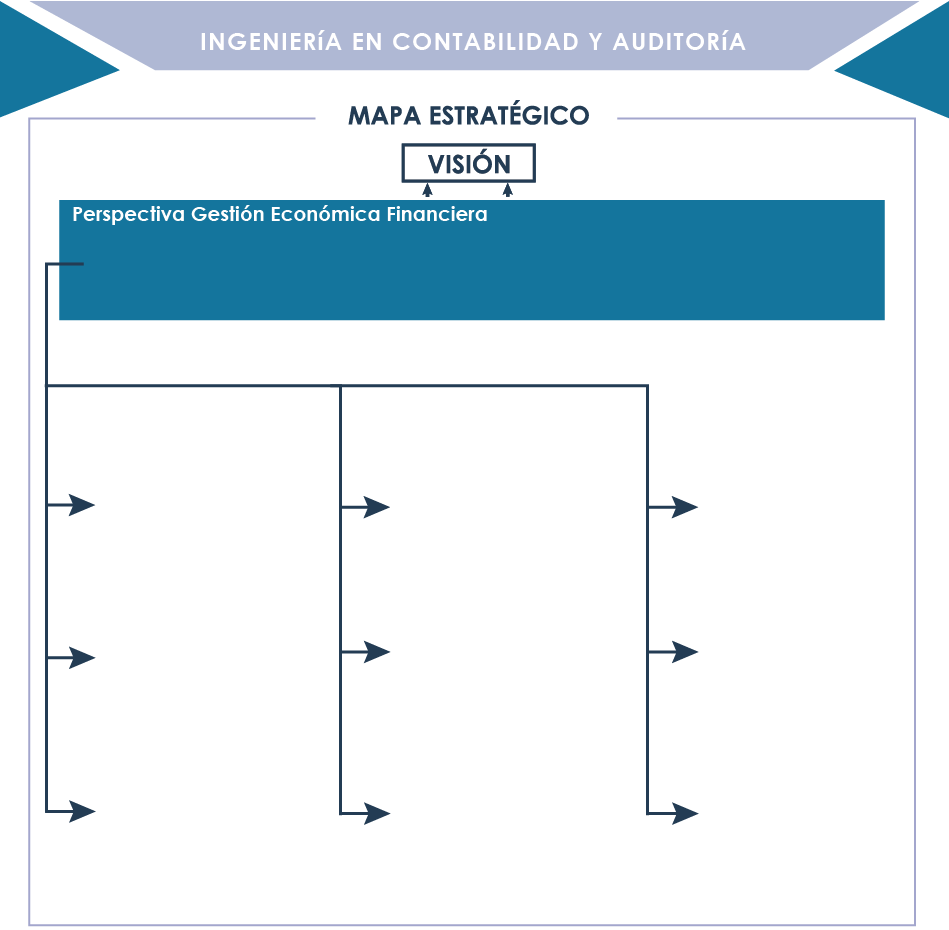
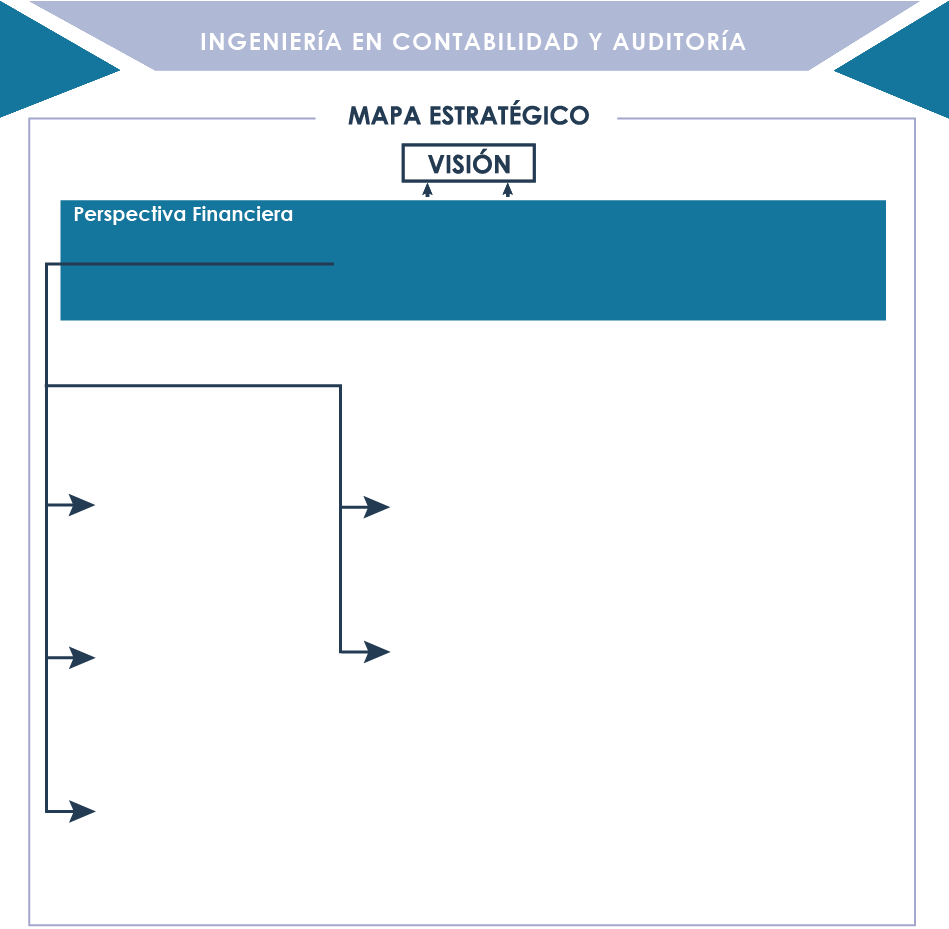
cvcv
cvcvv

diff --git a/public/css/Acciones.css b/public/css/Acciones.css
@@ -792,8 +792,8 @@ position:absolute;
 }
 #apDiv210 {
 	position:absolute;
-	left:363px;
-	top:719px;
+	left:365px;
+	top:732px;
 	width:32px;
 	height:7px;
 	z-index:1;
@@ -801,31 +801,31 @@ position:absolute;
 #apDiv211 {
 	position:absolute;
 	left:366px;
-	top:867px;
+	top:882px;
 	width:19px;
 	height:9px;
 	z-index:1;
 }
 #apDiv212 {
 	position:absolute;
-	left:366px;
-	top:1026px;
+	left:368px;
+	top:1040px;
 	width:20px;
 	height:7px;
 	z-index:1;
 }
 #apDiv213 {
 	position:absolute;
-	left:657px;
-	top:719px;
+	left:661px;
+	top:727px;
 	width:23px;
 	height:5px;
 	z-index:1;
 }
 #apDiv214 {
 	position:absolute;
-	left:658px;
-	top:865px;
+	left:660px;
+	top:878px;
 	width:27px;
 	height:6px;
 	z-index:1;
@@ -1028,5 +1028,101 @@ position:absolute;
 	top:1074px;
 	width:26px;
 	height:2px;
+	z-index:1;
+}
+#apDiv241 {
+	position:absolute;
+	left:448px;
+	top:392px;
+	width:70px;
+	height:23px;
+	z-index:1;
+}
+#apDiv242 {
+	position:absolute;
+	left:208px;
+	top:613px;
+	width:35px;
+	height:23px;
+	z-index:1;
+}
+#apDiv243 {
+	position:absolute;
+	left:208px;
+	top:764px;
+	width:94px;
+	height:24px;
+	z-index:1;
+}
+#apDiv244 {
+	position:absolute;
+	left:210px;
+	top:922px;
+	width:73px;
+	height:42px;
+	z-index:1;
+}
+#apDiv245 {
+	position:absolute;
+	left:502px;
+	top:610px;
+	width:66px;
+	height:36px;
+	z-index:1;
+}
+#apDiv246 {
+	position:absolute;
+	left:503px;
+	top:759px;
+	width:60px;
+	height:20px;
+	z-index:1;
+}
+#apDiv247 {
+	position:absolute;
+	left:728px;
+	top:544px;
+	width:133px;
+	height:52px;
+	z-index:1;
+}
+#apDiv248 {
+	position:absolute;
+	left:729px;
+	top:692px;
+	width:101px;
+	height:38px;
+	z-index:1;
+}
+#apDiv249 {
+	position:absolute;
+	left:729px;
+	top:842px;
+	width:74px;
+	height:39px;
+	z-index:1;
+}
+#apDiv250 {
+	position:absolute;
+	left:886px;
+	top:662px;
+	width:22px;
+	height:6px;
+	z-index:1;
+}
+#apDiv251 {
+	position:absolute;
+	left:887px;
+	top:810px;
+	width:25px;
+	height:5px;
+	z-index:1;
+}
+#apDiv252 {
+	position:absolute;
+	left:887px;
+	top:960px;
+	width:23px;
+	height:5px;
 	z-index:1;
 }

diff --git a/app/views/mapasbalanced/OptimiRecu.blade.php b/app/views/mapasbalanced/OptimiRecu.blade.php
@@ -83,57 +83,28 @@
                  @endif  
 
 
-               <div id="apDiv165">
-                      <img src="{{ asset('images/objetivosO/OptiRecursos_red.png') }}">
-                   </div>
-                     <div id="apDiv166">
-                        <img src="{{ asset('images/objetivosO/obtener_finan_red.png') }}">
-                     </div>
-                   <div id="apDiv167">
-                    <a id="1" href="{{ asset('images/descripcion/PlanOpAnual.png'); }}" rel="slideshow1">
-                         <img src="{{ asset('images/Acciones/PlanOpAnual.png') }}" style="cursor:pointer;">
-                      </a>
-                   </div>
-                   <div id="apDiv168">
-                    <a id="2" href="{{ asset('images/descripcion/PlanAnualContra.png'); }}" rel="slideshow2">
-                      <img src="{{ asset('images/Acciones/PlanAnualContra.png') }}" style="cursor:pointer;">
-                    </a>
-                   </div>
-                  <div id="apDiv169">
-                   <a id="3" href="{{ asset('images/descripcion/ActivosFijos.png'); }}" rel="slideshow3">
-                         <img src="{{ asset('images/Acciones/ActivosFijos.png') }}" style="cursor:pointer;">
-                    </a>
-                   </div>
-                  <div id="apDiv170">
-                   <a id="4" href="{{ asset('images/descripcion/ActivosCirculares.png'); }}" rel="slideshow4">
-                          <img src="{{ asset('images/Acciones/ActivosCirculares.png') }}" style="cursor:pointer;">
-                    </a>
-                  </div>
-                 <div id="apDiv171">
-                   <a id="5" href="{{ asset('images/descripcion/Energeticos.png'); }}" rel="slideshow5">
-                       <img src="{{ asset('images/Acciones/Energeticos.png') }}" style="cursor:pointer;">
-                    </a>
-                 </div>
-                <div id="apDiv172">
-                  <a id="6" href="{{ asset('images/descripcion/Agua.png'); }}" rel="slideshow6">
-                     <img src="{{ asset('images/Acciones/Agua.png') }}" style="cursor:pointer;">
-                  </a>
-                </div>
-                <div id="apDiv173">
-                 <a id="7" href="{{ asset('images/descripcion/Telefono.png'); }}" rel="slideshow7">
-                    <img src="{{ asset('images/Acciones/Telefono.png') }}" style="cursor:pointer;">
-                  </a>
-                </div>
-                <div id="apDiv174">
-                  <a id="8" href="{{ asset('images/descripcion/Internet.png'); }}" rel="slideshow8">
-                     <img src="{{ asset('images/Acciones/Internet.png') }}" style="cursor:pointer;">
-                  </a>
-                </div>
-                <div id="apDiv175">
-                  <a id="9" href="{{ asset('images/descripcion/GastosOperacion.png'); }}" rel="slideshow9">
-                       <img src="{{ asset('images/Acciones/GastosOperacion.png') }}" style="cursor:pointer;">
-                  </a>
-                </div>
+                <div id="apDiv241">
+                <img src="{{ asset('images/objetivosO/OptiRecursos_red.png')}}" style="cursor:pointer;">
+              </div>
+
+              <div id="apDiv242">
+                <img src="{{ asset('images/acciones/PresuDoc.png')}}" style="cursor:pointer;">
+              </div>
+              <div id="apDiv243">
+                <img src="{{ asset('images/acciones/PresuVinc.png')}}" style="cursor:pointer;">
+              </div>
+              <div id="apDiv244">
+                <img src="{{ asset('images/acciones/PresuInves.png')}}" style="cursor:pointer;">  
+              </div>
+              <div id="apDiv245">
+                <img src="{{ asset('images/acciones/PresuAdmin.png')}}" style="cursor:pointer;">  
+              </div>
+              <div id="apDiv246">
+                <img src="{{ asset('images/acciones/POA.png')}}" style="cursor:pointer;">
+              </div>
+                   
+
+                  
 
                 <!-- Evaluacion Acciones -->
 
@@ -152,17 +123,6 @@
                 <div id="apDiv214">
                    <img src="{{ asset('images/semaforo/rojo.png') }}">  
                 </div>
-                <div id="apDiv215">
-                    <img src="{{ asset('images/semaforo/rojo.png') }}">  
-                </div>
-                <div id="apDiv216">
-                   <img src="{{ asset('images/semaforo/rojo.png') }}">  
-                </div>
-                <div id="apDiv217">
-                   <img src="{{ asset('images/semaforo/rojo.png') }}">  
-                </div>
-                <div id="apDiv218">
-                    <img src="{{ asset('images/semaforo/rojo.png') }}">  
-                </div>
+               
         </div>
 @stop

diff --git a/app/views/mapasbalanced/MejorarClimaLab.blade.php b/app/views/mapasbalanced/MejorarClimaLab.blade.php
@@ -81,33 +81,36 @@
               </div>
                  @endif  
 
-               <div id="apDiv157">
+                <div id="apDiv157">
                         <img src="{{ asset('images/objetivosO/MejorarClima_red.png') }}">
                     </div>
-                    <div id="apDiv158">
-                        <img src="{{ asset('images/objetivosO/PromoCoope_red.png') }}">
+                     <div id="apDiv231">
+                      <img src="{{ asset('images/objetivosO/FortaCapDocentes_red.png')}}">
                     </div>
-                    <div id="apDiv150">
-                        <img src="{{ asset('images/objetivosO/FortaRRHH_red.png') }}">
-                    </div>
-                     <div id="apDiv159">
-                      <a id="1" href="{{ asset('images/descripcion/nConvEmpre.png'); }}" rel="slideshow1">
-                          <img src="{{ asset('images/Acciones/nConvEmpre.png') }}" style="cursor:pointer;">
-                      </a>
-                    </div>
-                    <div id="apDiv160">
-                        <a id="2" href="{{ asset('images/descripcion/nConvAcade.png'); }}" rel="slideshow2">
-                            <img src="{{ asset('images/Acciones/nConvAcade.png') }}" style="cursor:pointer;">
-                        </a>
-                    </div>
+
+                      <div id="apDiv247">
+                        <img src="{{ asset('images/acciones/Compromiso.png')}}" style="cursor:pointer;">
+                     </div>
+                     <div id="apDiv248">
+                       <img src="{{ asset('images/acciones/Liderazgo.png')}}" style="cursor:pointer;">
+                     </div>
+                     <div id="apDiv249">
+                        <img src="{{ asset('images/acciones/MotivPersonal.png')}}" style="cursor:pointer;">
+                     </div>
+
+                   
 
                     <!-- Evaluacion Acciones -->
 
-                     <div id="apDiv205">
-                        <img src="{{ asset('images/semaforo/rojo.png') }}">  
-                    </div>
-                    <div id="apDiv206">
-                        <img src="{{ asset('images/semaforo/rojo.png') }}">  
-                    </div>
+                       <div id="apDiv250">
+             <img src="{{ asset('images/semaforo/rojo.png') }}">  
+             </div>
+             <div id="apDiv251">
+              <img src="{{ asset('images/semaforo/rojo.png') }}">  
+             </div>
+             <div id="apDiv252">
+               <img src="{{ asset('images/semaforo/rojo.png') }}">  
+             </div> 
+                    
             </div>
 @stop

diff --git a/app/views/mapasbalanced/AcredCarr.blade.php b/app/views/mapasbalanced/AcredCarr.blade.php
@@ -81,26 +81,15 @@
                  @endif
 
 
-                  <div id="apDiv112">
-                          <img src="{{ asset('images/objetivosO/PotenInvest_red.png') }}">
+                   <div id="apDiv112">
+                        <img src="{{ asset('images/objetivosO/PotenInvest_red.png') }}">
                     </div>
                     <div id="apDiv113">
                         <img src="{{ asset('images/objetivosO/AcredCarr_red.png') }}">
                     </div>
-               <div id="apDiv116">
-                          <img src="{{ asset('images/Acciones/Evaluar_imp.png') }}">
-                    </div>
-                    <div id="apDiv117">
-                      <a id="1" href="{{ asset('images/descripcion/InserLab.png'); }}" rel="slideshow1">
 
-                         <img src="{{ asset('images/Acciones/InserLab.png') }}"  style="cursor:pointer;">  
-                       </a>  
-                    </div>
-                    <div id="apDiv118">
-                      <a id="2" href="{{ asset('images/descripcion/SatisEmpre.png'); }}" rel="slideshow2">
-                          <img src="{{ asset('images/Acciones/SatisEmpre.png') }}"  style="cursor:pointer;">
-                      </a>
-                    </div>
+
+                   
                     <div id="apDiv119">
                         <a id="3" href="{{ asset('images/descripcion/AvanceAcred.png'); }}" rel="slideshow3">
                           <img src="{{ asset('images/Acciones/AvanceAcred.png') }}"  style="cursor:pointer;">
@@ -109,13 +98,7 @@
 
                     <!-- Evaluacion Acciones -->
                      <!-- nombre del proyecto/macroproceso/escuela/proceso/objeto/peso-->
-                    <div id="apDiv179">
-                      <a style="cursor:default;" href="../evaluacionBalance/Producciones Científicas/20/{{Session::get('escuela')}}/2/2/4.5"  rel="floatbox">
-                      <img src="{{ asset('images/semaforo/rojo.png') }}">  
-                    </div>
-                     <div id="apDiv180">
-                      <img src="{{ asset('images/semaforo/rojo.png') }}">  
-                    </div>
+                   
                      <div id="apDiv181">
                       <img src="{{ asset('images/semaforo/rojo.png') }}">  
                     </div>

diff --git a/app/views/mapasbalanced/PotenInnov.blade.php b/app/views/mapasbalanced/PotenInnov.blade.php
@@ -94,15 +94,10 @@
                    <div id="apDiv126">
                       <img src="{{ asset('images/objetivosO/PoteInnov_red.png') }}">
                    </div>
-                   <div id="apDiv127">
-                      <img src="{{ asset('images/objetivosO/ImpleMcontemp_red.png') }}">
+                   <div id="apDiv228">
+                         <img src="{{ asset('images/objetivosO/PotenVincSoc_red.png')}}">
                    </div>
-                   <div id="apDiv128">
-                      <img src="{{ asset('images/objetivosO/DesaCent_red.png') }}">
-                   </div>
-                   <div id="apDiv129">
-                      <img src="{{ asset('images/objetivosO/PromProyec_red.png') }}">  
-                   </div>
+                 
                     <div id="apDiv140">
                     <a id="1" href="{{ asset('images/descripcion/RelacInves_nDoc.png'); }}" rel="slideshow1">
                         <img src="{{ asset('images/Acciones/RelacInves_nDoc.png') }}" style="cursor:pointer;">
